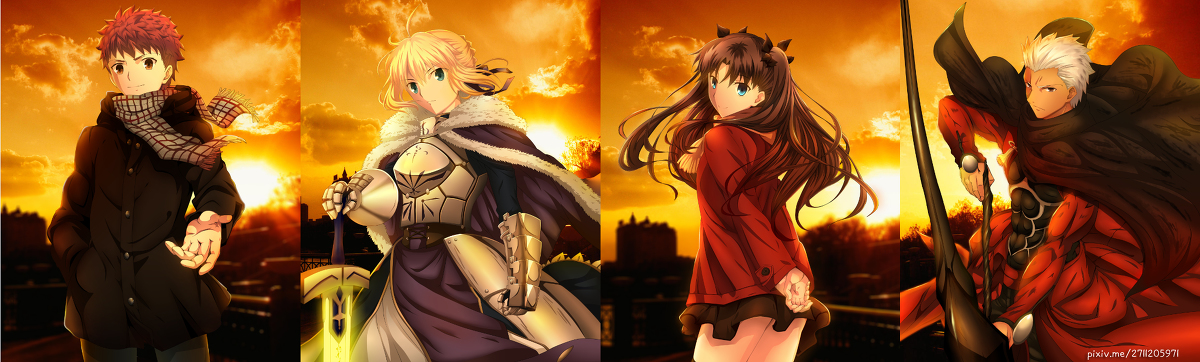
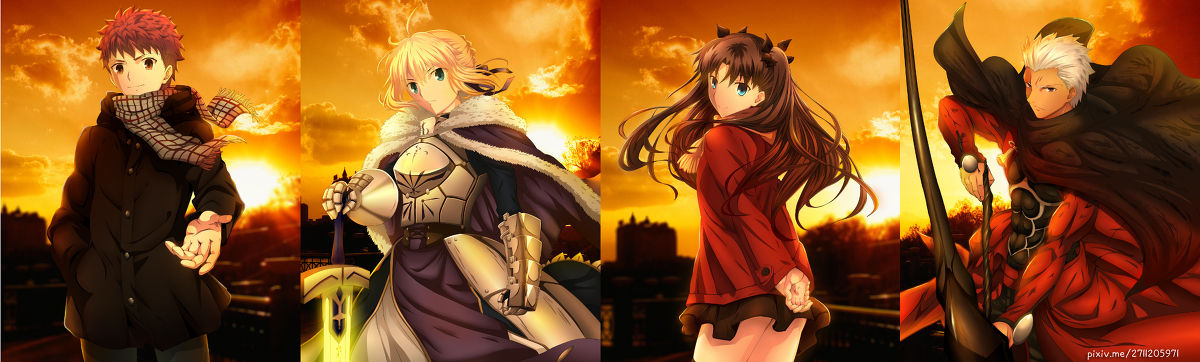
update page infor

diff --git a/categories/computer science/index.html b/categories/computer science/index.html
@@ -168,7 +168,7 @@
   <div class="image-credit">Image source: <a href="http://www.pixiv.net/member_illust.php?mode=medium&illust_id=46599808">Fate セイバー | nissa [pixiv]</a></div><!-- /.image-credit -->
   
     <div class="entry-image">
-      <img src="http://MeowAlienOwO.github.io//images/46599808_p0.png" alt="Category: computer science">
+      <img src="http://MeowAlienOwO.github.io//images/46599808_p0.jpg" alt="Category: computer science">
     </div><!-- /.entry-image -->
   
   <div class="header-title">

diff --git a/categories/operating system/index.html b/categories/operating system/index.html
@@ -168,7 +168,7 @@
   <div class="image-credit">Image source: <a href="http://www.pixiv.net/member_illust.php?mode=medium&illust_id=46599808">Fate セイバー | nissa [pixiv]</a></div><!-- /.image-credit -->
   
     <div class="entry-image">
-      <img src="http://MeowAlienOwO.github.io//images/46599808_p0.png" alt="Category: operating system">
+      <img src="http://MeowAlienOwO.github.io//images/46599808_p0.jpg" alt="Category: operating system">
     </div><!-- /.entry-image -->
   
   <div class="header-title">

diff --git a/categories/空之境界/index.html b/categories/空之境界/index.html
@@ -168,7 +168,7 @@
   <div class="image-credit">Image source: <a href="http://www.pixiv.net/member_illust.php?mode=medium&illust_id=46599808">Fate セイバー | nissa [pixiv]</a></div><!-- /.image-credit -->
   
     <div class="entry-image">
-      <img src="http://MeowAlienOwO.github.io//images/46599808_p0.png" alt="Category: 空之境界">
+      <img src="http://MeowAlienOwO.github.io//images/46599808_p0.jpg" alt="Category: 空之境界">
     </div><!-- /.entry-image -->
   
   <div class="header-title">

diff --git a/categories/language/index.html b/categories/language/index.html
@@ -168,7 +168,7 @@
   <div class="image-credit">Image source: <a href="http://www.pixiv.net/member_illust.php?mode=medium&illust_id=46599808">Fate セイバー | nissa [pixiv]</a></div><!-- /.image-credit -->
   
     <div class="entry-image">
-      <img src="http://MeowAlienOwO.github.io//images/46599808_p0.png" alt="Category: language">
+      <img src="http://MeowAlienOwO.github.io//images/46599808_p0.jpg" alt="Category: language">
     </div><!-- /.entry-image -->
   
   <div class="header-title">

diff --git a/categories/jekyll/index.html b/categories/jekyll/index.html
@@ -168,7 +168,7 @@
   <div class="image-credit">Image source: <a href="http://www.pixiv.net/member_illust.php?mode=medium&illust_id=46599808">Fate セイバー | nissa [pixiv]</a></div><!-- /.image-credit -->
   
     <div class="entry-image">
-      <img src="http://MeowAlienOwO.github.io//images/46599808_p0.png" alt="Category: jekyll">
+      <img src="http://MeowAlienOwO.github.io//images/46599808_p0.jpg" alt="Category: jekyll">
     </div><!-- /.entry-image -->
   
   <div class="header-title">

diff --git a/categories/hello/index.html b/categories/hello/index.html
@@ -168,7 +168,7 @@
   <div class="image-credit">Image source: <a href="http://www.pixiv.net/member_illust.php?mode=medium&illust_id=46599808">Fate セイバー | nissa [pixiv]</a></div><!-- /.image-credit -->
   
     <div class="entry-image">
-      <img src="http://MeowAlienOwO.github.io//images/46599808_p0.png" alt="Category: hello">
+      <img src="http://MeowAlienOwO.github.io//images/46599808_p0.jpg" alt="Category: hello">
     </div><!-- /.entry-image -->
   
   <div class="header-title">

diff --git a/categories/acg/index.html b/categories/acg/index.html
@@ -168,7 +168,7 @@
   <div class="image-credit">Image source: <a href="http://www.pixiv.net/member_illust.php?mode=medium&illust_id=46599808">Fate セイバー | nissa [pixiv]</a></div><!-- /.image-credit -->
   
     <div class="entry-image">
-      <img src="http://MeowAlienOwO.github.io//images/46599808_p0.png" alt="Category: acg">
+      <img src="http://MeowAlienOwO.github.io//images/46599808_p0.jpg" alt="Category: acg">
     </div><!-- /.entry-image -->
   
   <div class="header-title">

diff --git a/categories/cs/index.html b/categories/cs/index.html
@@ -168,7 +168,7 @@
   <div class="image-credit">Image source: <a href="http://www.pixiv.net/member_illust.php?mode=medium&illust_id=46599808">Fate セイバー | nissa [pixiv]</a></div><!-- /.image-credit -->
   
     <div class="entry-image">
-      <img src="http://MeowAlienOwO.github.io//images/46599808_p0.png" alt="Category: cs">
+      <img src="http://MeowAlienOwO.github.io//images/46599808_p0.jpg" alt="Category: cs">
     </div><!-- /.entry-image -->
   
   <div class="header-title">

diff --git a/404.html b/404.html
@@ -168,7 +168,7 @@
 <div class="entry-header">
   <div class="image-credit">Image source: <a href="">休み | NEKO♨甲 [pixiv]</a></div><!-- /.image-credit -->
   <div class="entry-image">
-    <img src="http://MeowAlienOwO.github.io//images/49018748_p0.png" alt="Oops...404 not found">
+    <img src="http://MeowAlienOwO.github.io//images/49018748_p0.jpg" alt="Oops...404 not found">
   </div><!-- /.entry-image -->
 </div><!-- /.entry-header -->
 
